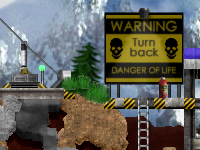
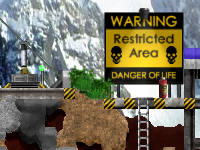
* Große Schilder an Neuerungen angepasst. * Titelbild aktualisiert.

diff --git a/ModernCombatFINALTRY.c4f/CMC_BridgeOnslaught.c4s/Script.c b/ModernCombatFINALTRY.c4f/CMC_BridgeOnslaught.c4s/Script.c
@@ -298,7 +298,10 @@ func CreateInterior()
     CreateObject(CONS, 2420, 525, -1)->Set(aSelfDefense[3]);
 
   //Hinweisschilder
-  var sign = CreateObject(SGNP, 990, 640, -1);
+  var sign = CreateObject(SNPT, 190, 655, -1);
+  sign->SetMode(1);
+  sign->SetAction("Sign6");
+  sign = CreateObject(SGNP, 990, 640, -1);
   sign->SetMode(1);
   sign->Set("Turret");
   sign = CreateObject(SGNP, 1740, 640, -1);
@@ -310,6 +313,9 @@ func CreateInterior()
   sign = CreateObject(SNPT, 2330, 430, -1);
   sign->SetAction("Sign2");
   sign->Light();
+  sign = CreateObject(SNPT, 2530, 655, -1);
+  sign->SetMode(1);
+  sign->SetAction("Sign6");
 
   //Grenzen
   CreateObject(BRDR, 170, 0, -1)->Set(0);
